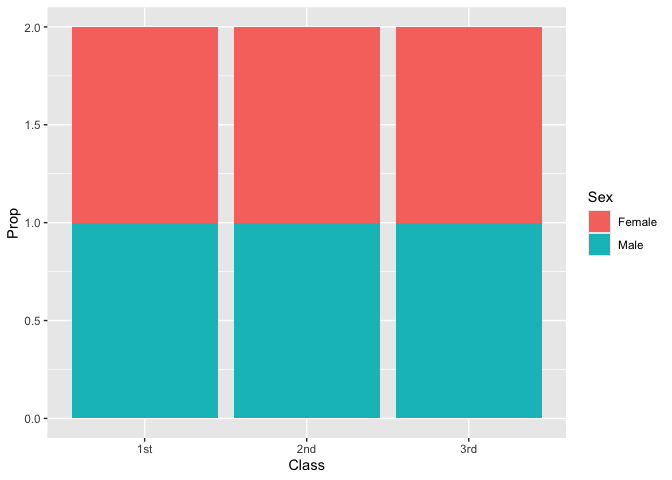
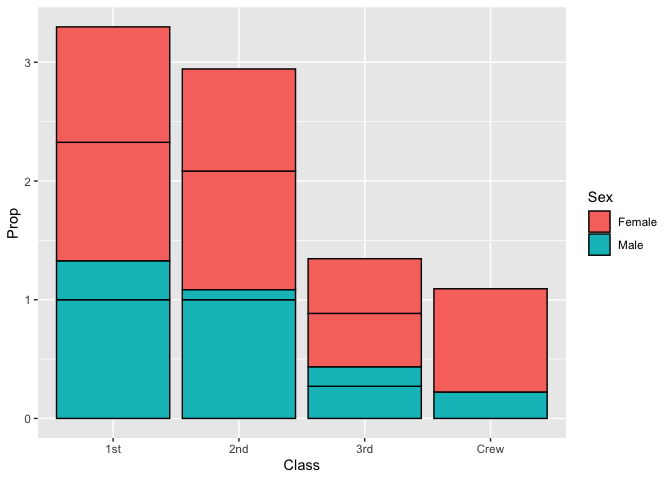
Resubmit Challenge 1.

diff --git a/data-science-curriculum-build-2/challenges/c01-titanic-assignment.md b/data-science-curriculum-build-2/challenges/c01-titanic-assignment.md
@@ -156,26 +156,33 @@ df_titanic %>% summarize(total = sum(n))
 
 df_q3 <- df_titanic %>%
   group_by(Sex, Survived, Class) %>% 
-  filter(Class != "Crew", Survived != "No")
+  filter(
+    # Class != "Crew", 
+    Survived != "No"
+  )
 df_q3
 ```
 
-    ## # A tibble: 12 × 5
-    ## # Groups:   Sex, Survived, Class [6]
+    ## # A tibble: 16 × 5
+    ## # Groups:   Sex, Survived, Class [8]
     ##    Class Sex    Age   Survived     n
     ##    <chr> <chr>  <chr> <chr>    <dbl>
     ##  1 1st   Male   Child Yes          5
     ##  2 2nd   Male   Child Yes         11
     ##  3 3rd   Male   Child Yes         13
-    ##  4 1st   Female Child Yes          1
-    ##  5 2nd   Female Child Yes         13
-    ##  6 3rd   Female Child Yes         14
-    ##  7 1st   Male   Adult Yes         57
-    ##  8 2nd   Male   Adult Yes         14
-    ##  9 3rd   Male   Adult Yes         75
-    ## 10 1st   Female Adult Yes        140
-    ## 11 2nd   Female Adult Yes         80
-    ## 12 3rd   Female Adult Yes         76
+    ##  4 Crew  Male   Child Yes          0
+    ##  5 1st   Female Child Yes          1
+    ##  6 2nd   Female Child Yes         13
+    ##  7 3rd   Female Child Yes         14
+    ##  8 Crew  Female Child Yes          0
+    ##  9 1st   Male   Adult Yes         57
+    ## 10 2nd   Male   Adult Yes         14
+    ## 11 3rd   Male   Adult Yes         75
+    ## 12 Crew  Male   Adult Yes        192
+    ## 13 1st   Female Adult Yes        140
+    ## 14 2nd   Female Adult Yes         80
+    ## 15 3rd   Female Adult Yes         76
+    ## 16 Crew  Female Adult Yes         20
 
 ``` r
 ggplot(df_q3, aes(x = Class, y = n, fill = Sex)) +
@@ -241,38 +248,24 @@ df_prop
 ### **q4** Replicate your visual from q3, but display `Prop` in place of `n`. Document your observations, and note any new/different observations you make in comparison with q3. Is there anything *fishy* in your plot?
 
 ``` r
-df_q4 <- df_titanic %>%
-  group_by(Sex, Survived, Class) %>% 
-  filter(Class != "Crew", Survived != "No") %>% 
-  mutate(
-    Total = sum(n),
-    Prop = n / Total
-  ) %>%
-  ungroup()
-  
-df_q4
+# df_prop %>%
+#   group_by(Sex, Survived, Class) %>% 
+#   filter(Class != "Crew", Survived != "No") %>% 
+#   mutate(
+#     Total = sum(n),
+#     Prop = n / Total
+#   ) %>%
+#   ungroup()
+
+
+df_prop %>% 
+  filter(Survived == "Yes") %>% 
+  ggplot(aes(x = Class, y = Prop, fill = Sex)) +
+  geom_col(color = "black")
 ```
 
-    ## # A tibble: 12 × 7
-    ##    Class Sex    Age   Survived     n Total    Prop
-    ##    <chr> <chr>  <chr> <chr>    <dbl> <dbl>   <dbl>
-    ##  1 1st   Male   Child Yes          5    62 0.0806 
-    ##  2 2nd   Male   Child Yes         11    25 0.44   
-    ##  3 3rd   Male   Child Yes         13    88 0.148  
-    ##  4 1st   Female Child Yes          1   141 0.00709
-    ##  5 2nd   Female Child Yes         13    93 0.140  
-    ##  6 3rd   Female Child Yes         14    90 0.156  
-    ##  7 1st   Male   Adult Yes         57    62 0.919  
-    ##  8 2nd   Male   Adult Yes         14    25 0.56   
-    ##  9 3rd   Male   Adult Yes         75    88 0.852  
-    ## 10 1st   Female Adult Yes        140   141 0.993  
-    ## 11 2nd   Female Adult Yes         80    93 0.860  
-    ## 12 3rd   Female Adult Yes         76    90 0.844
-
-``` r
-ggplot(df_q4, aes(x = Class, y = Prop, fill = Sex)) +
-  geom_col()
-```
+    ## Warning: Removed 2 rows containing missing values or values outside the scale range
+    ## (`geom_col()`).
 
 ![](c01-titanic-assignment_files/figure-gfm/q4-task-1.png)<!-- -->
 
@@ -280,8 +273,12 @@ ggplot(df_q4, aes(x = Class, y = Prop, fill = Sex)) +
 
 - Write your observations here.
 - Is there anything *fishy* going on in your plot?
-  - All the bar plots go to 2, not properly showing the proportions we
-    are trying to analyze
+  - The bar plots showing proportion of survivors extend beyond 100%
+  - After adding color outlines to the stacked bar plots, I see there
+    are 4 bar charts for each stacked bar chart
+  - This is because all passengers are broken up into Adult and Children
+    categories, and both of them are being considered in this plot,
+    causing the proportions to go beyond 100%
 
 ### **q5** Create a plot showing the group-proportion of occupants who *did* survive, along with aesthetics for `Class`, `Sex`, *and* `Age`. Document your observations below.
 
